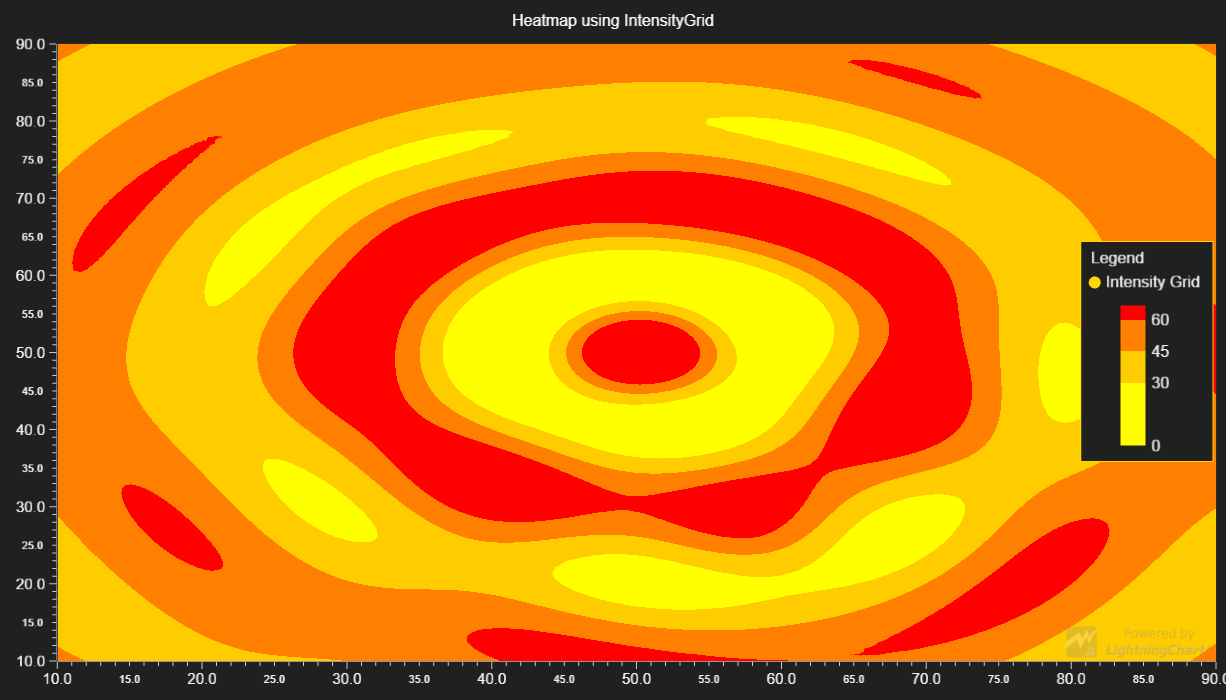
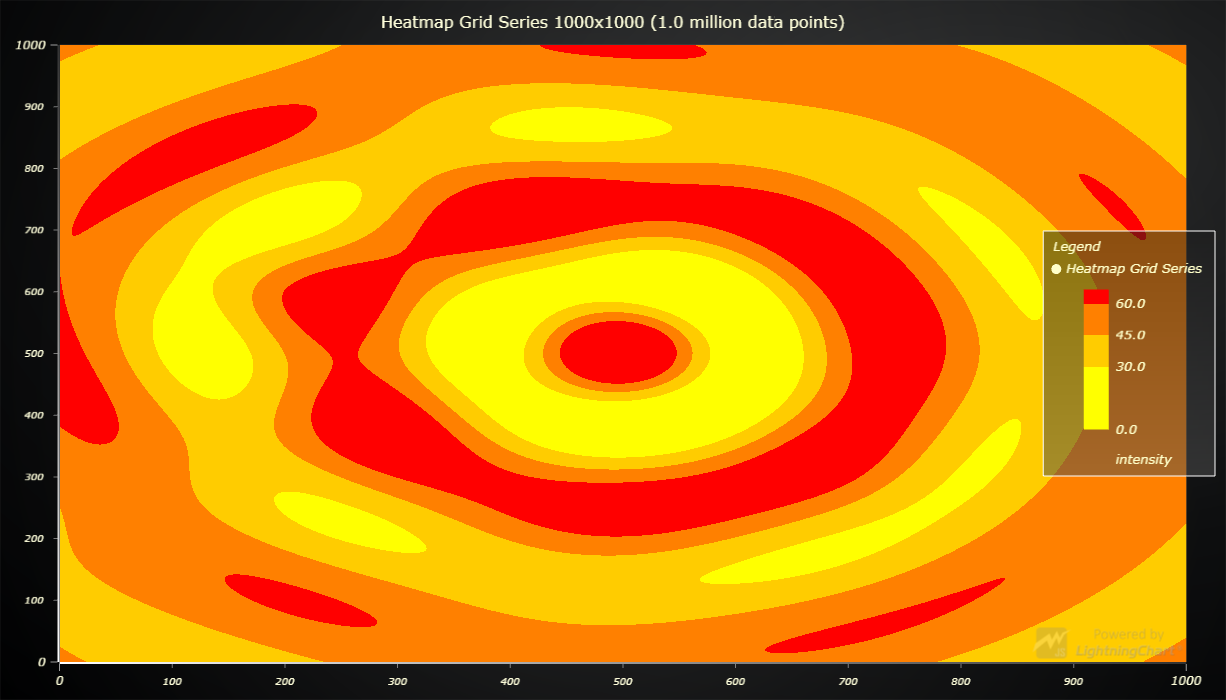
Update LCJS version

diff --git a/src/index.js b/src/index.js
@@ -2,62 +2,70 @@
  * LightningChartJS example that showcases a simple XY line series.
  */
 // Import LightningChartJS
-const lcjs = require('@arction/lcjs')
+const lcjs = require("@arction/lcjs");
 
 // Extract required parts from LightningChartJS.
-const {
-    lightningChart,
-    PalettedFill,
-    LUT,
-    ColorRGBA,
-    Themes
-} = lcjs
+const { lightningChart, PalettedFill, LUT, ColorRGBA, emptyLine, Themes } =
+  lcjs;
 
-const {
-    createWaterDropDataGenerator
-} = require('@arction/xydata')
-
-
-// Create a XY Chart.
-const chart = lightningChart().ChartXY({
-    // theme: Themes.dark
-})
-    .setTitle('Heatmap using IntensityGrid')
+const { createWaterDropDataGenerator } = require("@arction/xydata");
 
 // Specify the resolution used for the heatmap.
-const resolutionX = 100
-const resolutionY = 200
+const resolutionX = 1000;
+const resolutionY = 1000;
+
+// Create a XY Chart.
+const chart = lightningChart()
+  .ChartXY({
+    // theme: Themes.darkGold
+  })
+  .setTitle(
+    `Heatmap Grid Series ${resolutionX}x${resolutionY} (${(
+      (resolutionX * resolutionY) /
+      1000000
+    ).toFixed(1)} million data points)`
+  )
+  .setPadding({ right: 40 });
 
 // Create LUT and FillStyle
 const palette = new LUT({
-    steps: [
-        { value: 0, color: ColorRGBA(255, 255, 0) },
-        { value: 30, color: ColorRGBA(255, 204, 0) },
-        { value: 45, color: ColorRGBA(255, 128, 0) },
-        { value: 60, color: ColorRGBA(255, 0, 0) },
-    ],
-    interpolate: false
-})
-
-// Add a Heatmap to the Chart. By default IntensityGrid Series Type is used.
-const heatmap = chart.addHeatmapSeries({
-    rows: resolutionX,
-    columns: resolutionY,
-    start: { x: 10, y: 10 },
-    end: { x: 90, y: 90 },
-    pixelate: false
-})
-    // Color Heatmap using previously created color look up table.
-    .setFillStyle(new PalettedFill({ lut: palette }))
+  units: "intensity",
+  steps: [
+    { value: 0, color: ColorRGBA(255, 255, 0) },
+    { value: 30, color: ColorRGBA(255, 204, 0) },
+    { value: 45, color: ColorRGBA(255, 128, 0) },
+    { value: 60, color: ColorRGBA(255, 0, 0) },
+  ],
+  interpolate: false,
+});
 
 // Generate heatmap data.
 createWaterDropDataGenerator()
-    .setRows( resolutionX )
-    .setColumns( resolutionY )
-    .generate()
-    .then( data => {
-        heatmap.invalidateValuesOnly( data )
-    } )
+  .setRows(resolutionX)
+  .setColumns(resolutionY)
+  .generate()
+  .then((data) => {
+    // Add a Heatmap to the Chart.
+    const heatmap = chart
+      .addHeatmapGridSeries({
+        columns: resolutionX,
+        rows: resolutionY,
+        start: { x: 0, y: 0 },
+        end: { x: resolutionX, y: resolutionY },
+        dataOrder: "columns",
+      })
+      // Color Heatmap using previously created color look up table.
+      .setFillStyle(new PalettedFill({ lut: palette }))
+      .setWireframeStyle(emptyLine)
+      .invalidateIntensityValues(data)
+      .setMouseInteractions(false);
 
-// Add LegendBox.
-const legend = chart.addLegendBox().add(chart)
+    // Add LegendBox.
+    const legend = chart.addLegendBox()
+      // Dispose example UI elements automatically if they take too much space. This is to avoid bad UI on mobile / etc. devices.
+      .setAutoDispose({
+        type: 'max-width',
+        maxWidth: 0.30,
+    })
+      .add(chart)
+  });

diff --git a/webpack.config.js b/webpack.config.js
@@ -69,7 +69,8 @@ module.exports = {
         }),
         new CopyWebpackPlugin({
             patterns: [
-                { from: './assets/**/*', to: './examples/assets', flatten: true, noErrorOnMissing: true }
+                { from: './assets/**/*', to: './examples/assets', flatten: true, noErrorOnMissing: true },
+                { from: './node_modules/@arction/lcjs/dist/resources', to: 'resources', noErrorOnMissing: true },
             ]
         })
     ]

diff --git a/README.md b/README.md
@@ -19,90 +19,91 @@ The demo can be used as an example or a seed project. Local execution requires t
 
 ## Description
 
-This example shows a simple use-case scenario for grid-based Heatmaps.
+This example showcases simple usage of `HeatmapGridSeries`, a simple, yet incredibly series type.
 
-The data used for the heatmap is created using the WaterdropGenerator function in the example code.
-
-Heatmaps are a powerful tool for visualizing magnitude in two dimensions. This example focuses on the IntensityGrid-type Heatmap Series.
+`HeatmapGridSeries` visualizes three dimensional data (X, Y, color) of large quantities.
+It can easily handle data sets in million data points range even on low-end devices.
+With large amounts of RAM even **billions** of data points can be visualized!
 
 Heatmaps can be created in XY Charts:
 
 ```javascript
-// Add heatmap Series to a XY Chart
-chartXY.addHeatmapSeries( {
-    rows:       verticalResolution,
-    columns:    horizontalResolution,
-    start:      { x: 0, y: 0 },
-    end:        { x: 100, y: 100 },
-    pixelate:   false
-})
+// Add heatmap Grid Series to a XY Chart
+chartXY.addHeatmapGridSeries({
+  columns: horizontalResolution,
+  rows: verticalResolution,
+});
 ```
 
-# Heatmap Series options
-Let's open up the options a bit more:
+The data used for the heatmap is created using the WaterdropGenerator function in the example code.
 
-*rows*
-Rows determine the *vertical resolution*, or density of each cell vertically.
-*columns*
-Columns determine the *horizontal resolution*, or density of each cell horizontally.
-*start*
-The position from where the heatmap will be rendered from.
-*end*
-The position to where the heatmap will be rendered to.
-*pixelate*
-If true, each cell will be rendered as-is; this will create a pixelated look for the heatmap.
-If false, the cells will be interpolated to give the heatmap a cleaner look.
+# Heatmap Grid Series options
 
-The *rows* and *columns* control the amount of data present in the heatmap; think of them as *cells* in a *matrix*.
+When `HeatmapGridSeries` is created, there are minimum of two properties that have to be specified:
 
-The *start* and *end* position determine the *size* of the heatmap in the XY Chart's scale.
+`columns`: amount of data values along X dimension.
 
-There are additional optional options available;
-*type*
-Which type of IntensitySeries should be used for the heatmap.
-*xAxis*
-The Horizontal Axis the heatmap should be attached to.
-*yAxis*
-The Vertical Axis the heatmap should be attached to.
+`rows`: amount of data values along Y dimension.
 
-# Heatmap series usage
-Now that we have the heatmap specified, it's time to fill it with data.
+Configuration of these two properties is enough for a fully functioning heatmap grid series.
 
-```javascript
-// Use invalidateValuesOnly to add data to the series and invalidate it.
-// The data should be given as a matrix of numbers.
-heatmap.invalidateValuesOnly( Matrix<number> )
-// Optionally, it's also possible to go through each cell in the heatmap
-// and fill the data using a callback
-heatmap.invalidateValuesOnly( UpdateValueCallBack )
-// Set a fillStyle to use for coloring the heatmap.
-// Using a combination of PalettedFill and LUT allows coloring each cell
-// depending on the data added.
-heatmap.setFillStyle( new PalettedFill( { LUT } )
+The following optional properties can be used for tweaking heatmap behavior for exact application purposes:
+
+`start`: Axis coordinate where heatmap grid begins.
+
+`end`: Axis coordinate where heatmap grid ends.
+
+`step`: Alternate syntax, supplying a `step` value will result in automatic calculation of `end` based on `columns` / `rows` amount.
+
+`dataOrder`: By default incoming intensity data is treated as _list of columns_. This can be flipped by selecting `dataOrder: 'rows'`.
+
+# Heatmap Grid Series data input
+
+The data set of `HeatmapGridSeries` is defined as a _number matrix_, for example:
+
+```js
+// Example syntax of 3x5 number matrix.
+[
+  [0, 1, 0, 1, 0],
+  [1, 0, 1, 0, 0],
+  [0, 0, 0, 0, 0],
+];
 ```
 
-It is also possible to instead assign specific colors to each cell in the heatmap.
-```javascript
-// Use invalidateColorsOnly to add color to the series and invalidate it.
-// The colors should be given as a matrix of colors.
-heatmap.invalidateColorsOnly( Matrix<Color> )
-// Optionally, a callback can be used to change color of each cell.
-heatmap.invalidateColorsOnly( UpdateColorCallback )
-// Set the fillStyle of the heatmap to IndividualPointFill, so each cell
-// can be properly colored.
-heatmap.setFillStyle( new IndividualPointFill() )
+The data set is specified with `invalidateIntensityValues` method. There are two overrides for this method.
+
+```js
+// Example syntax, invalidate intensity values override #1, specify data from beginning of heatmap.
+heatmap.invalidateIntensityValues([
+  // dataOrder: 'columns', columns: 3, rows: 5
+  [0, 0, 0, 0, 0],
+  [0, 0, 0, 0, 0],
+  [0, 0, 0, 0, 0],
+]);
+```
+
+```js
+// Example syntax, invalidate intensity values override #2, specify data from arbitrary offset.
+heatmap.invalidateIntensityValues({
+  iColumn: 10,
+  iRow: 0,
+  values: [
+    [0, 0, 0, 0, 0],
+    [0, 0, 0, 0, 0],
+    [0, 0, 0, 0, 0],
+  ],
+});
 ```
 
 
 ## API Links
 
 * [XY cartesian chart]
-* [Intensity Grid Series]
+* [Heatmap Grid Series Intensity]
 * [Paletted Fill]
-* [Individual Point Fill]
-* [Matrix]
 * [LUT]
-* [UpdateColorCallback]
+* [Empty line style]
+* [Legend Box]
 
 
 ## Support
@@ -126,11 +127,10 @@ Direct developer email support can be purchased through a [Support Plan][4] or b
 © Arction Ltd 2009-2020. All rights reserved.
 
 
-[XY cartesian chart]: https://www.arction.com/lightningchart-js-api-documentation/v3.0.1/classes/chartxy.html
-[Intensity Grid Series]: https://www.arction.com/lightningchart-js-api-documentation/v3.0.1/classes/intensitygridseries.html
-[Paletted Fill]: https://www.arction.com/lightningchart-js-api-documentation/v3.0.1/classes/palettedfill.html
-[Individual Point Fill]: https://www.arction.com/lightningchart-js-api-documentation/v3.0.1/classes/individualpointfill.html
-[Matrix]: https://www.arction.com/lightningchart-js-api-documentation/v3.0.1/globals.html#matrix
-[LUT]: https://www.arction.com/lightningchart-js-api-documentation/v3.0.1/classes/lut.html
-[UpdateColorCallback]: https://www.arction.com/lightningchart-js-api-documentation/v3.0.1/globals.html#updatecolorcallback
+[XY cartesian chart]: https://www.arction.com/lightningchart-js-api-documentation/v3.1.0/classes/chartxy.html
+[Heatmap Grid Series Intensity]: https://www.arction.com/lightningchart-js-api-documentation/v3.1.0/
+[Paletted Fill]: https://www.arction.com/lightningchart-js-api-documentation/v3.1.0/classes/palettedfill.html
+[LUT]: https://www.arction.com/lightningchart-js-api-documentation/v3.1.0/classes/lut.html
+[Empty line style]: https://www.arction.com/lightningchart-js-api-documentation/v3.1.0/globals.html#emptyline
+[Legend Box]: https://www.arction.com/lightningchart-js-api-documentation/v3.1.0/classes/chartxy.html#addlegendbox
 
